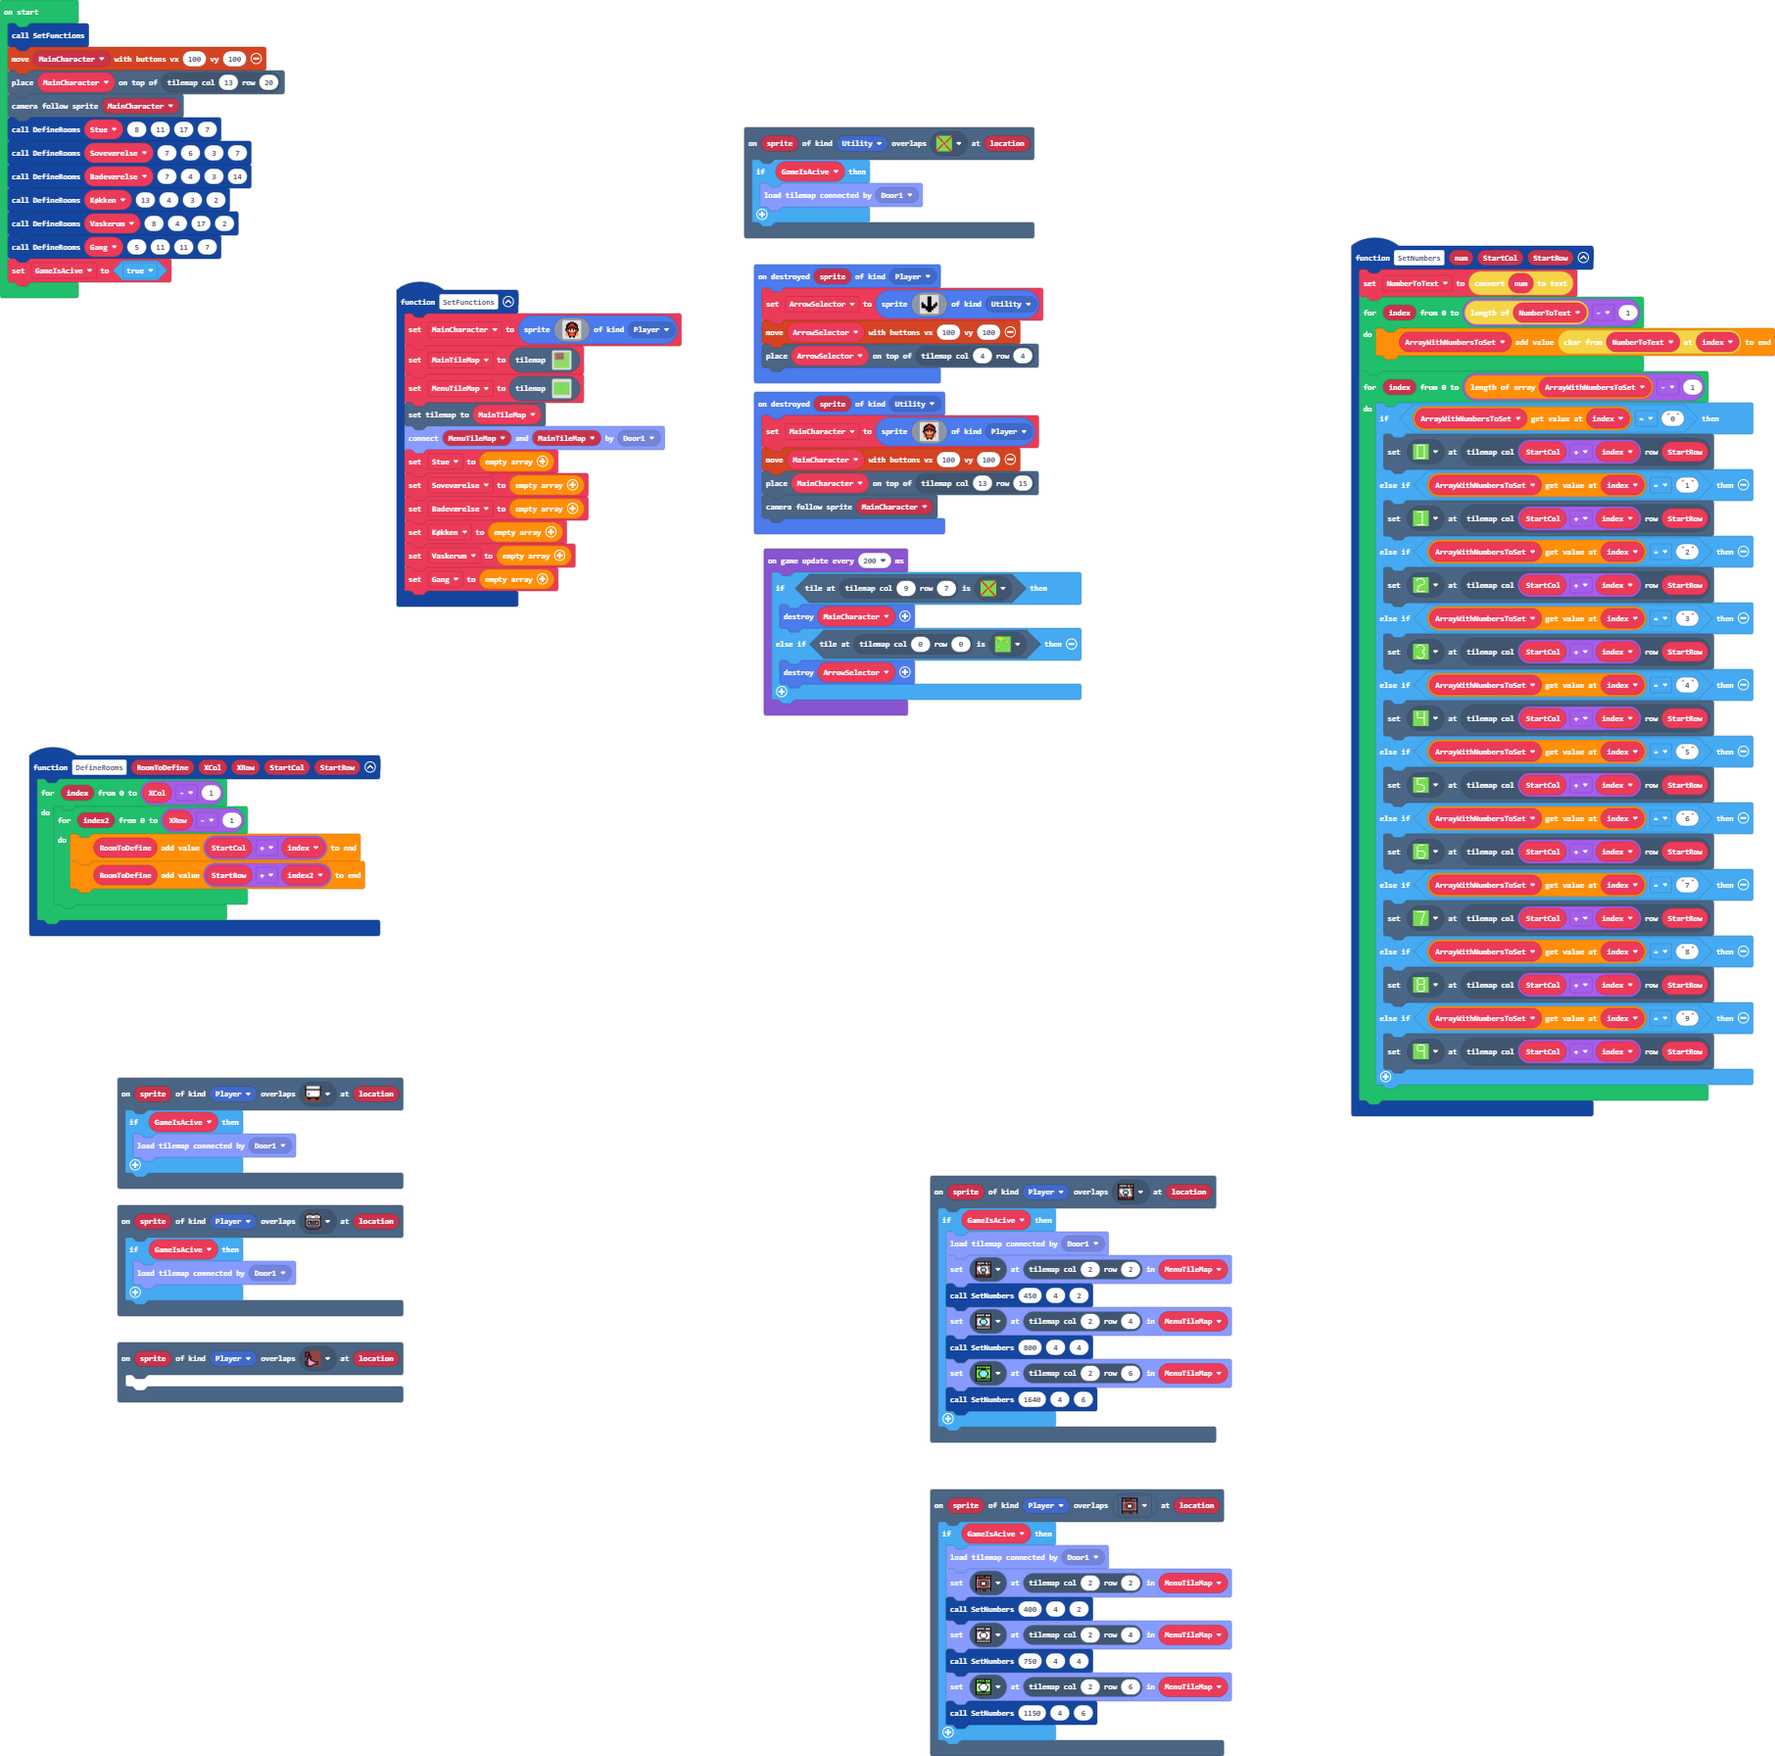
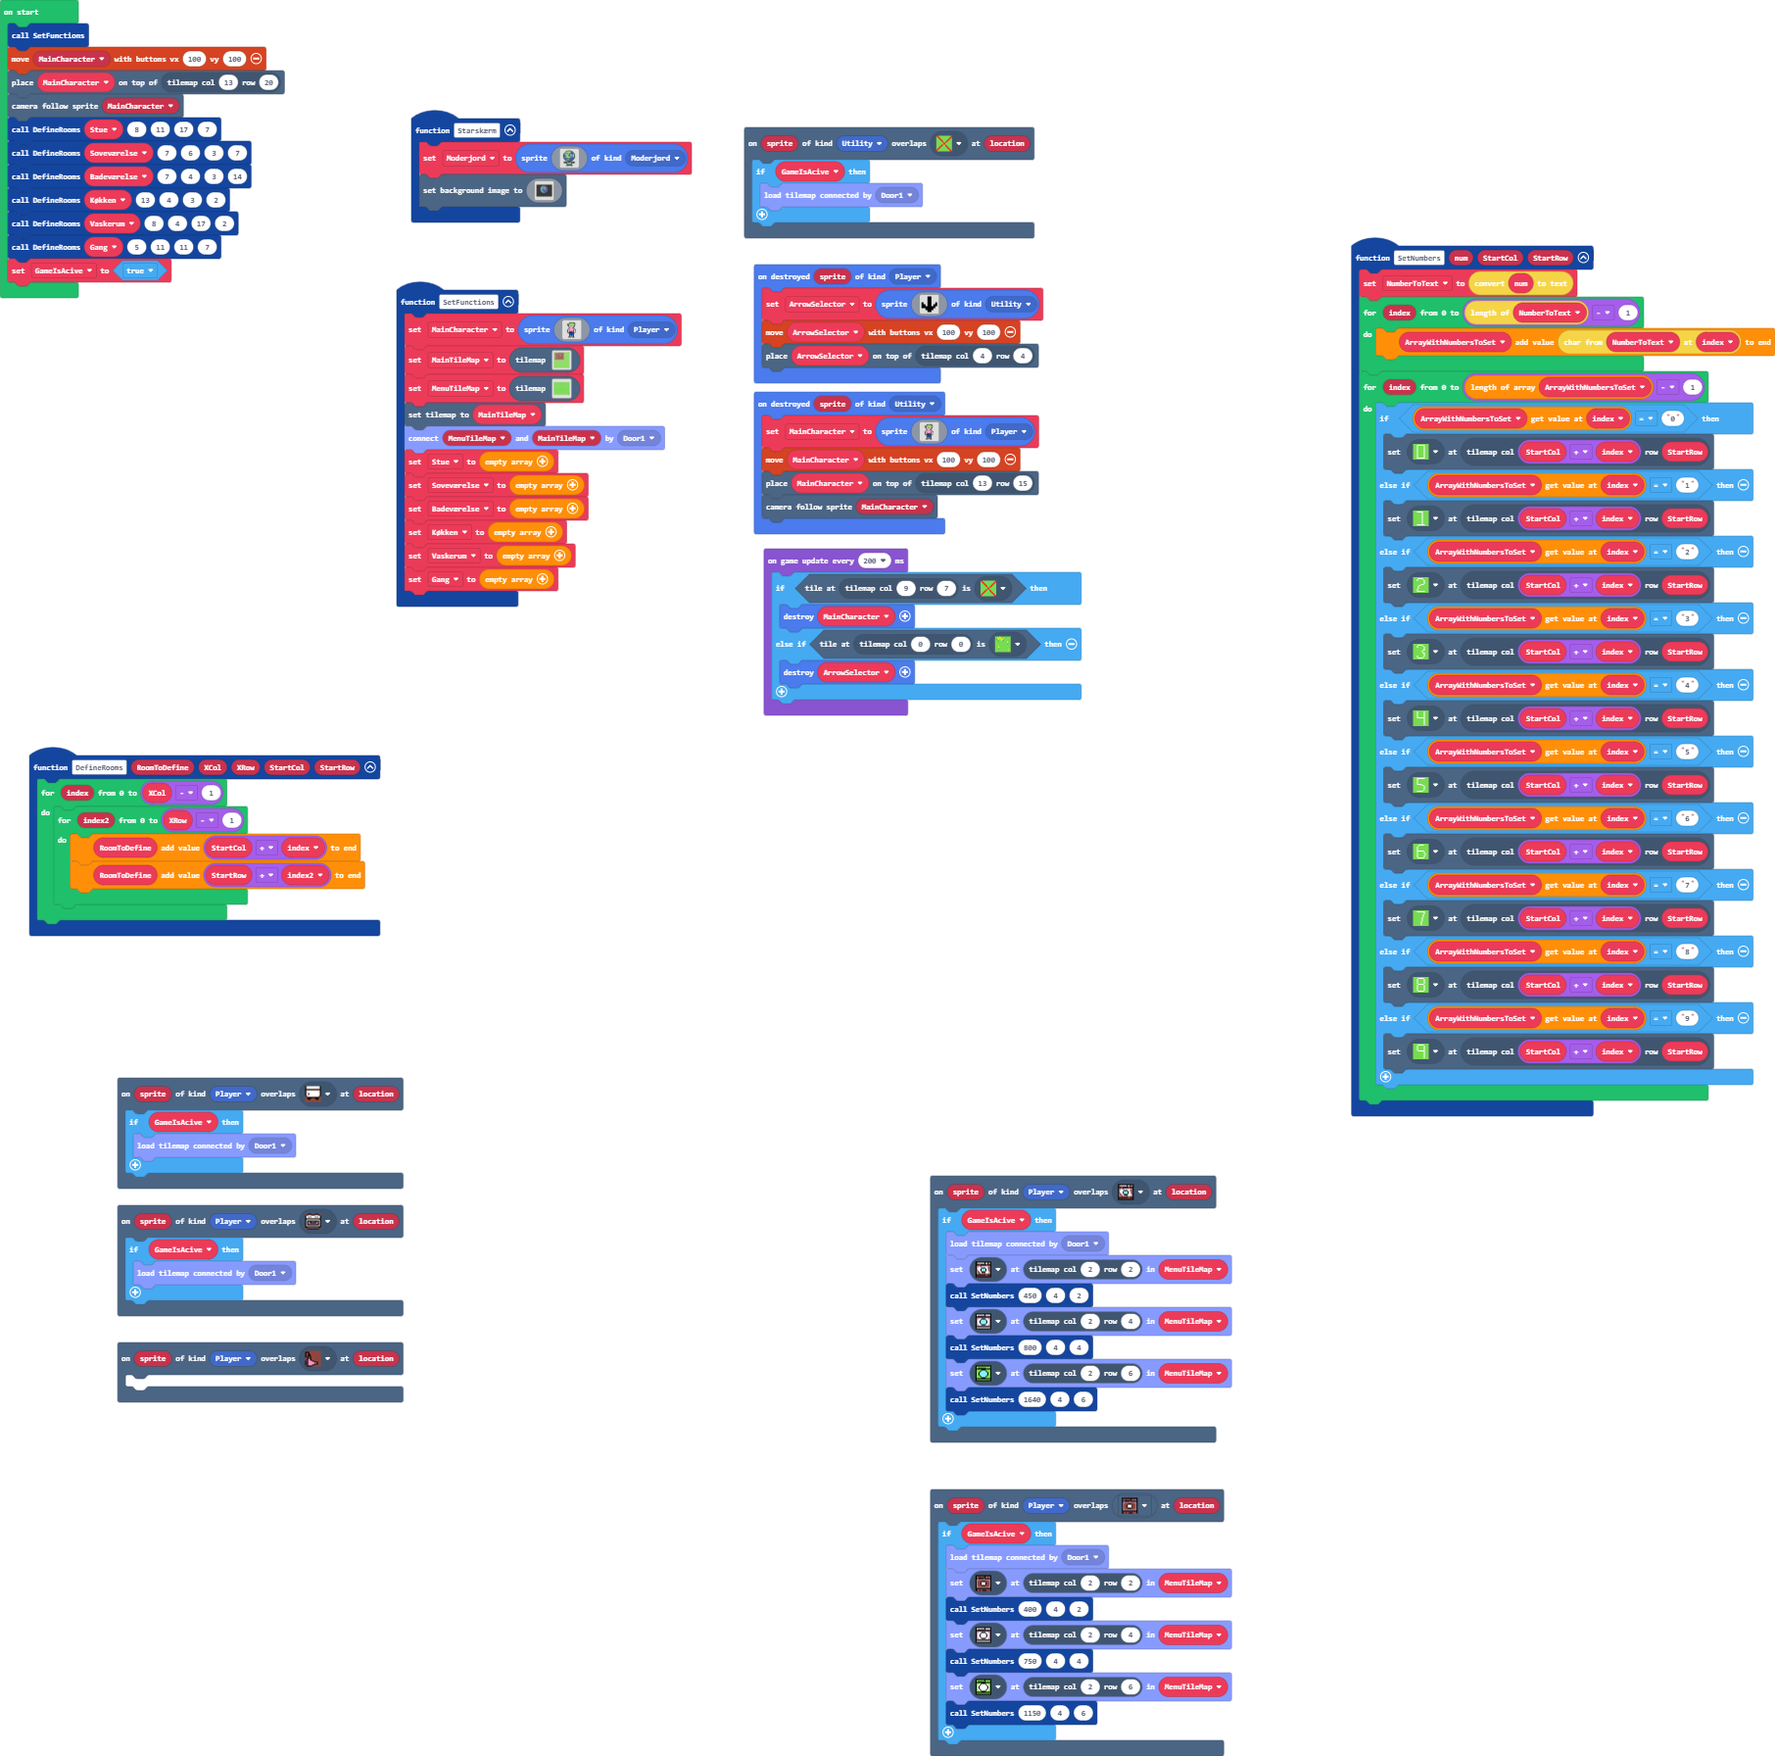
Update main.blocks, main.ts, images.g.jres, images.g.ts

Changed region(s): [[0.2163, 0.0625, 0.4018, 0.125]]

diff --git a/images.g.ts b/images.g.ts
@@ -33,6 +33,225 @@ f f f f f f f .
 . . . . . . . . . . . . . . . . 
 . . . . . . . . . . . . . . . . 
 `;
+            case "image3":
+            case "MainGuy":return img`
+..................
+.....fffffffff....
+....ff7777777ff...
+....f777777777ff..
+fffff7777777777f..
+f77777777777777f..
+ffffdddddddddef...
+...fddfddfdddef...
+...fddfddfddeef...
+...fddddddddef....
+....fdddddddf.....
+.....ffdddff......
+...ff3333333ff....
+..f33333333333f...
+.f3333333333333f..
+f333f3333333f333f.
+.fddf3333333fddf..
+.fddf3333333fddf..
+.fddf33fff33fddf..
+.fddffff8ffffddf..
+.fdff88fff88ffdf..
+..f.f8888888f.f...
+....fe888888f.....
+....fe88f888f.....
+....f888f888f.....
+....f888f888f.....
+....fbbbfbbbf.....
+....febbfbbef.....
+...febbf.fbbef....
+...ffff...ffff....
+`;
+            case "image4":
+            case "ModerJord":return img`
+............................................................
+......................ffffffffffffff........................
+....................ffffffffffffffffff......................
+.................fffff77777777777777fffff...................
+................ffffff77777777777777ffffff..................
+...............ff777777712117777777788888ff.................
+..............fff777777722227777777788888fff................
+.............ff7777777771211777777778888888ff...............
+............fff7777777777777777777778888888fff..............
+...........ff77777777777777777777777888888888ff.............
+..........fff77777777777777777777777888888888fff............
+.........ff7777fffffffffff7777fffffffffff888877ff...........
+.........ff7777fffffffffff7777fffffffffff888877ff...........
+........fff777777777777777777788888888888888877fff..........
+........fff777777777777777777788888888888888877fff..........
+.......ff8888887711111118877888811111118888777777ff.........
+.......ff8888887711111118877888811111118888777777ff.........
+.......ff888888771fff1118888888811111118888777777ff.........
+.......ff888888771fff11188888888fff11118888777777ff.........
+.......ff888888881fff11177888888fff11118888722127ff.........
+.......ff88ff8888111111177888888fff11118888711117ff.........
+.......ff888f888888877777777888888888888888722127ff.........
+.......ff8eeee88877777777777778888888888888777777ff.........
+.......ff88ee88887777777777777888888888d888777777ff.........
+.......ff88888888777777777777777778888ddd88887777ff.........
+.......ff8888888877777777777777777888dddd88887777ff.........
+.......ff887128887777777777777777777888d888888877ff.........
+.......ff8871288877777777777777777778888888888877ff.........
+........fff71288877ff7777777777777778ff88888888fff..........
+........fff88888877ffff777777777777ffff88888888fff..........
+.........ff888888888ffffffffffffffffff888888888ff...........
+.........ff88888888888ffffffffffffff88888888888ff...........
+..........fff8888888887fff223322fff8888888888fff............
+...........ff88888888877ff223322ff88888888888ff.............
+............fff8888877777722332288888888888fff..............
+.............ff8888877777722332288888888888ff...............
+..............fff888777788221122888888888fff................
+...............ff888777788222222888888888ff.................
+................ffffffff888888888888ffffff..................
+.................fffffff888888888888fffff...................
+.....................fffffff8888fffffff.....................
+........................ffff8888ffff........................
+..........................ff8888ff..........................
+..........ffffffffffffffffff8888fffffffffffffffff...........
+.........fffffffffffffffffff8888ffffffffffffffffff..........
+........ffff8888888ff77777ffffffff77777ff888888ffff.........
+........ffff8888888ff77777ffffffff77777ff888888ffff.........
+.........ffffffffffff777777777777777777fffffffffff..........
+..........fffffffffff777777777777777777ffffffffff...........
+...................fffff777777777777fffff...................
+...................fffff777777777777fffff...................
+.....................fff777777777777fff.....................
+.....................fff777777777777fff.....................
+.....................fff888888888888fff.....................
+.....................fff888888888888fff.....................
+.....................fff88ffffffff88fff.....................
+.....................fff88ffffffff88fff.....................
+.................fffffffffff....fffffffffff.................
+.................fffffffffff....fffffffffff.................
+............................................................
+`;
+            case "image5":
+            case "Backgrund":return img`
+ffffffffffffffffffffffffffffffffffffffffffffffffffffffffffffffffffffffffffffffffffffffffffffffffffffffffffffffffffffffffffffffffffffffffffffffffffffffffffffffff
+ffffffffffffffffffffffffffffffffffffffffffffffffffffffffffffffffffffffffffffffffffffffffffffffffffffffffffffffffffffffffffffffffffffffffffffffffffffffffffffffff
+ffffffffffffffffffffffffffffffffffffffffffffffffffffffffffffffffffffffffffffffffffffffffffffffffffffffffffffffffffffffffffffffffffffffffffffffffffffffffffffffff
+ffffffffffffffffffffffffffffffffffffffffffffffffffffffffffffffffffffffffffffffffffffffffffffffffffffffffffffffffffffffffffffffffffffffffffffffffffffffffffffffff
+ffffffffffffffffffffffffffffffffffffffffffffffffffffffffffffffffffffffffffffffffffffffffffffffffffffffffffffffffffffffffffffffffffffffffffffffffffffffffffffffff
+ffffffffffffffffffffffffffffffffffffffffffffffffffffffffffffffffffffffffffffffffffffffffffffffffffffffffffffffffffffffffffffffffffffffffffffffffffffffffffffffff
+ffffffffffffffffffffffffffffffffffffffffffffffffffffffffffffffffffffffffffffffffffffffffffffffffffffffffffffffffffffffffffffffffffffffffffffffffffffffffffffffff
+ffffffffffffffffffffffffffffffffffffffffffffffffffffffffffffffffffffffffffffffffffffffffffffffffffffffffffffffffffffffffffffffffffffffffffffffffffffffffffffffff
+ffffffffffffffffffffffffffffffffffffffffffffffffffffffffffffffffffffffffffffffffffffffffffffffffffffffffffffffffffffffffffffffffffffffffffffffffffffffffffffffff
+ffffffffffffffffffffffffffffffffffffffffffffffffffffffffffffffffffffffffffffffffffffffffffffffffffffffffffffffffffffffffffffffffffffffffffffffffffffffffffffffff
+ffffffffffffffffffffffffffffffffffffffffffffffffffffffffffffffffffffffffffffffffffffffffffffffffffffffffffffffffffffffffffffffffffffffffffffffffffffffffffffffff
[73 lines of base64/hex data omitted]
+ffffffffffffffffffffffffffffffffffffffffffffffffffffffffffffffffffffffffffffffffffffffffffffffffffffffffffffffffffffffffffffffffffffffffffffffffffffffffffffffff
+ffffffffffffffffffffffffffffffffffffffffffffffffffffffffffffffffffffffffffffffffffffffffffffffffffffffffffffffffffffffffffffffffffffffffffffffffffffffffffffffff
+ffffffffffffffffffffffffffffffffffffffffffffffffffffffffffffffffffffffffffffffffffffffffffffffffffffffffffffffffffffffffffffffffffffffffffffffffffffffffffffffff
+ffffffffffffffffffffffffffffffffffffffffffffffffffffffffffffffffffffffffffffffffffffffffffffffffffffffffffffffffffffffffffffffffffffffffffffffffffffffffffffffff
+ffffffffffffffffffffffffffffffffffffffffffffffffffffffffffffffffffffffffffffffffffffffffffffffffffffffffffffffffffffffffffffffffffffffffffffffffffffffffffffffff
+ffffffffffffffffffffffffffffffffffffffffffffffffffffffffffffffffffffffffffffffffffffffffffffffffffffffffffffffffffffffffffffffffffffffffffffffffffffffffffffffff
+ffffffffffffffffffffffffffffffffffffffffffffffffffffffffffffffffffffffffffffffffffffffffffffffffffffffffffffffffffffffffffffffffffffffffffffffffffffffffffffffff
+ffffffffffffffffffffffffffffffffffffffffffffffffffffffffffffffffffffffffffffffffffffffffffffffffffffffffffffffffffffffffffffffffffffffffffffffffffffffffffffffff
+ffffffffffffffffffffffffffffffffffffffffffffffffffffffffffffffffffffffffffffffffffffffffffffffffffffffffffffffffffffffffffffffffffffffffffffffffffffffffffffffff
+ffffffffffffffffffffffffffffffffffffffffffffffffffffffffffffffffffffffffffffffffffffffffffffffffffffffffffffffffffffffffffffffffffffffffffffffffffffffffffffffff
+ffffffffffffffffffffffffffffffffffffffffffffffffffffffffffffffffffffffffffffffffffffffffffffffffffffffffffffffffffffffffffffffffffffffffffffffffffffffffffffffff
+ffffffffffffffffffffffffffffffffffffffffffffffffffffffffffffffffffffffffffffffffffffffffffffffffffffffffffffffffffffffffffffffffffffffffffffffffffffffffffffffff
+ffffffffffffffffffffffffffffffffffffffffffffffffffffffffffffffffffffffffffffffffffffffffffffffffffffffffffffffffffffffffffffffffffffffffffffffffffffffffffffffff
+ffffffffffffffffffffffffffffffffffffffffffffffffffffffffffffffffffffffffffffffffffffffffffffffffffffffffffffffffffffffffffffffffffffffffffffffffffffffffffffffff
+ffffffffffffffffffffffffffffffffffffffffffffffffffffffffffffffffffffffffffffffffffffffffffffffffffffffffffffffffffffffffffffffffffffffffffffffffffffffffffffffff
+ffffffffffffffffffffffffffffffffffffffffffffffffffffffffffffffffffffffffffffffffffffffffffffffffffffffffffffffffffffffffffffffffffffffffffffffffffffffffffffffff
+ffffffffffffffffffffffffffffffffffffffffffffffffffffffffffffffffffffffffffffffffffffffffffffffffffffffffffffffffffffffffffffffffffffffffffffffffffffffffffffffff
+ffffffffffffffffffffffffffffffffffffffffffffffffffffffffffffffffffffffffffffffffffffffffffffffffffffffffffffffffffffffffffffffffffffffffffffffffffffffffffffffff
+ffffffffffffffffffffffffffffffffffffffffffffffffffffffffffffffffffffffffffffffffffffffffffffffffffffffffffffffffffffffffffffffffffffffffffffffffffffffffffffffff
+ffffffffffffffffffffffffffffffffffffffffffffffffffffffffffffffffffffffffffffffffffffffffffffffffffffffffffffffffffffffffffffffffffffffffffffffffffffffffffffffff
+ffffffffffffffffffffffffffffffffffffffffffffffffffffffffffffffffffffffffffffffffffffffffffffffffffffffffffffffffffffffffffffffffffffffffffffffffffffffffffffffff
+ffffffffffffffffffffffffffffffffffffffffffffffffffffffffffffffffffffffffffffffffffffffffffffffffffffffffffffffffffffffffffffffffffffffffffffffffffffffffffffffff
+ffffffffffffffffffffffffffffffffffffffffffffffffffffffffffffffffffffffffffffffffffffffffffffffffffffffffffffffffffffffffffffffffffffffffffffffffffffffffffffffff
+ffffffffffffffffffffffffffffffffffffffffffffffffffffffffffffffffffffffffffffffffffffffffffffffffffffffffffffffffffffffffffffffffffffffffffffffffffffffffffffffff
+ffffffffffffffffffffffffffffffffffffffffffffffffffffffffffffffffffffffffffffffffffffffffffffffffffffffffffffffffffffffffffffffffffffffffffffffffffffffffffffffff
+ffffffffffffffffffffffffffffffffffffffffffffffffffffffffffffffffffffffffffffffffffffffffffffffffffffffffffffffffffffffffffffffffffffffffffffffffffffffffffffffff
+ffffffffffffffffffffffffffffffffffffffffffffffffffffffffffffffffffffffffffffffffffffffffffffffffffffffffffffffffffffffffffffffffffffffffffffffffffffffffffffffff
+ffffffffffffffffffffffffffffffffffffffffffffffffffffffffffffffffffffffffffffffffffffffffffffffffffffffffffffffffffffffffffffffffffffffffffffffffffffffffffffffff
+ffffffffffffffffffffffffffffffffffffffffffffffffffffffffffffffffffffffffffffffffffffffffffffffffffffffffffffffffffffffffffffffffffffffffffffffffffffffffffffffff
+ffffffffffffffffffffffffffffffffffffffffffffffffffffffffffffffffffffffffffffffffffffffffffffffffffffffffffffffffffffffffffffffffffffffffffffffffffffffffffffffff
+ffffffffffffffffffffffffffffffffffffffffffffffffffffffffffffffffffffffffffffffffffffffffffffffffffffffffffffffffffffffffffffffffffffffffffffffffffffffffffffffff
+ffffffffffffffffffffffffffffffffffffffffffffffffffffffffffffffffffffffffffffffffffffffffffffffffffffffffffffffffffffffffffffffffffffffffffffffffffffffffffffffff
+ffffffffffffffffffffffffffffffffffffffffffffffffffffffffffffffffffffffffffffffffffffffffffffffffffffffffffffffffffffffffffffffffffffffffffffffffffffffffffffffff
+ffffffffffffffffffffffffffffffffffffffffffffffffffffffffffffffffffffffffffffffffffffffffffffffffffffffffffffffffffffffffffffffffffffffffffffffffffffffffffffffff
+ffffffffffffffffffffffffffffffffffffffffffffffffffffffffffffffffffffffffffffffffffffffffffffffffffffffffffffffffffffffffffffffffffffffffffffffffffffffffffffffff
+ffffffffffffffffffffffffffffffffffffffffffffffffffffffffffffffffffffffffffffffffffffffffffffffffffffffffffffffffffffffffffffffffffffffffffffffffffffffffffffffff
+`;
         }
         return null;
     })

diff --git a/main.ts b/main.ts
@@ -1,5 +1,6 @@
 namespace SpriteKind {
     export const Utility = SpriteKind.create()
+    export const Moderjord = SpriteKind.create()
 }
 scene.onOverlapTile(SpriteKind.Player, assets.tile`vaskemaskine0`, function (sprite, location) {
     if (GameIsAcive) {
@@ -37,52 +38,22 @@ function DefineRooms (RoomToDefine: number[], XCol: number, XRow: number, StartC
     }
 }
 sprites.onDestroyed(SpriteKind.Utility, function (sprite) {
-    MainCharacter = sprites.create(img`
-        . . . . . . f f f f . . . . . . 
-        . . . . f f f 2 2 f f f . . . . 
-        . . . f f f 2 2 2 2 f f f . . . 
-        . . f f f e e e e e e f f f . . 
-        . . f f e 2 2 2 2 2 2 e e f . . 
-        . . f e 2 f f f f f f 2 e f . . 
-        . . f f f f e e e e f f f f . . 
-        . f f e f b f 4 4 f b f e f f . 
-        . f e e 4 1 f d d f 1 4 e e f . 
-        . . f e e d d d d d d e e f . . 
-        . . . f e e 4 4 4 4 e e f . . . 
-        . . e 4 f 2 2 2 2 2 2 f 4 e . . 
-        . . 4 d f 2 2 2 2 2 2 f d 4 . . 
-        . . 4 4 f 4 4 5 5 4 4 f 4 4 . . 
-        . . . . . f f f f f f . . . . . 
-        . . . . . f f . . f f . . . . . 
-        `, SpriteKind.Player)
+    MainCharacter = sprites.create(assets.image`MainGuy`, SpriteKind.Player)
     controller.moveSprite(MainCharacter, 100, 100)
     tiles.placeOnTile(MainCharacter, tiles.getTileLocation(13, 15))
     scene.cameraFollowSprite(MainCharacter)
 })
+function Starskærm () {
+    Moderjord = sprites.create(assets.image`ModerJord`, SpriteKind.Moderjord)
+    scene.setBackgroundImage(assets.image`Backgrund`)
+}
 scene.onOverlapTile(SpriteKind.Player, assets.tile`ovn`, function (sprite, location) {
     if (GameIsAcive) {
         tileUtil.loadConnectedMap(MapConnectionKind.Door1)
     }
 })
 function SetFunctions () {
-    MainCharacter = sprites.create(img`
-        . . . . . . f f f f . . . . . . 
-        . . . . f f f 2 2 f f f . . . . 
-        . . . f f f 2 2 2 2 f f f . . . 
-        . . f f f e e e e e e f f f . . 
-        . . f f e 2 2 2 2 2 2 e e f . . 
-        . . f e 2 f f f f f f 2 e f . . 
-        . . f f f f e e e e f f f f . . 
-        . f f e f b f 4 4 f b f e f f . 
-        . f e e 4 1 f d d f 1 4 e e f . 
-        . . f e e d d d d d d e e f . . 
-        . . . f e e 4 4 4 4 e e f . . . 
-        . . e 4 f 2 2 2 2 2 2 f 4 e . . 
-        . . 4 d f 2 2 2 2 2 2 f d 4 . . 
-        . . 4 4 f 4 4 5 5 4 4 f 4 4 . . 
-        . . . . . f f f f f f . . . . . 
-        . . . . . f f . . f f . . . . . 
-        `, SpriteKind.Player)
+    MainCharacter = sprites.create(assets.image`MainGuy`, SpriteKind.Player)
     MainTileMap = tilemap`level`
     MenuTileMap = tilemap`level2`
     tiles.setCurrentTilemap(MainTileMap)
@@ -140,6 +111,7 @@ scene.onOverlapTile(SpriteKind.Player, assets.tile`køleskab 2`, function (sprit
 let ArrowSelector: Sprite = null
 let NumberToText = ""
 let MainTileMap: tiles.TileMapData = null
+let Moderjord: Sprite = null
 let MenuTileMap: tiles.TileMapData = null
 let GameIsAcive = false
 let Gang: number[] = []
